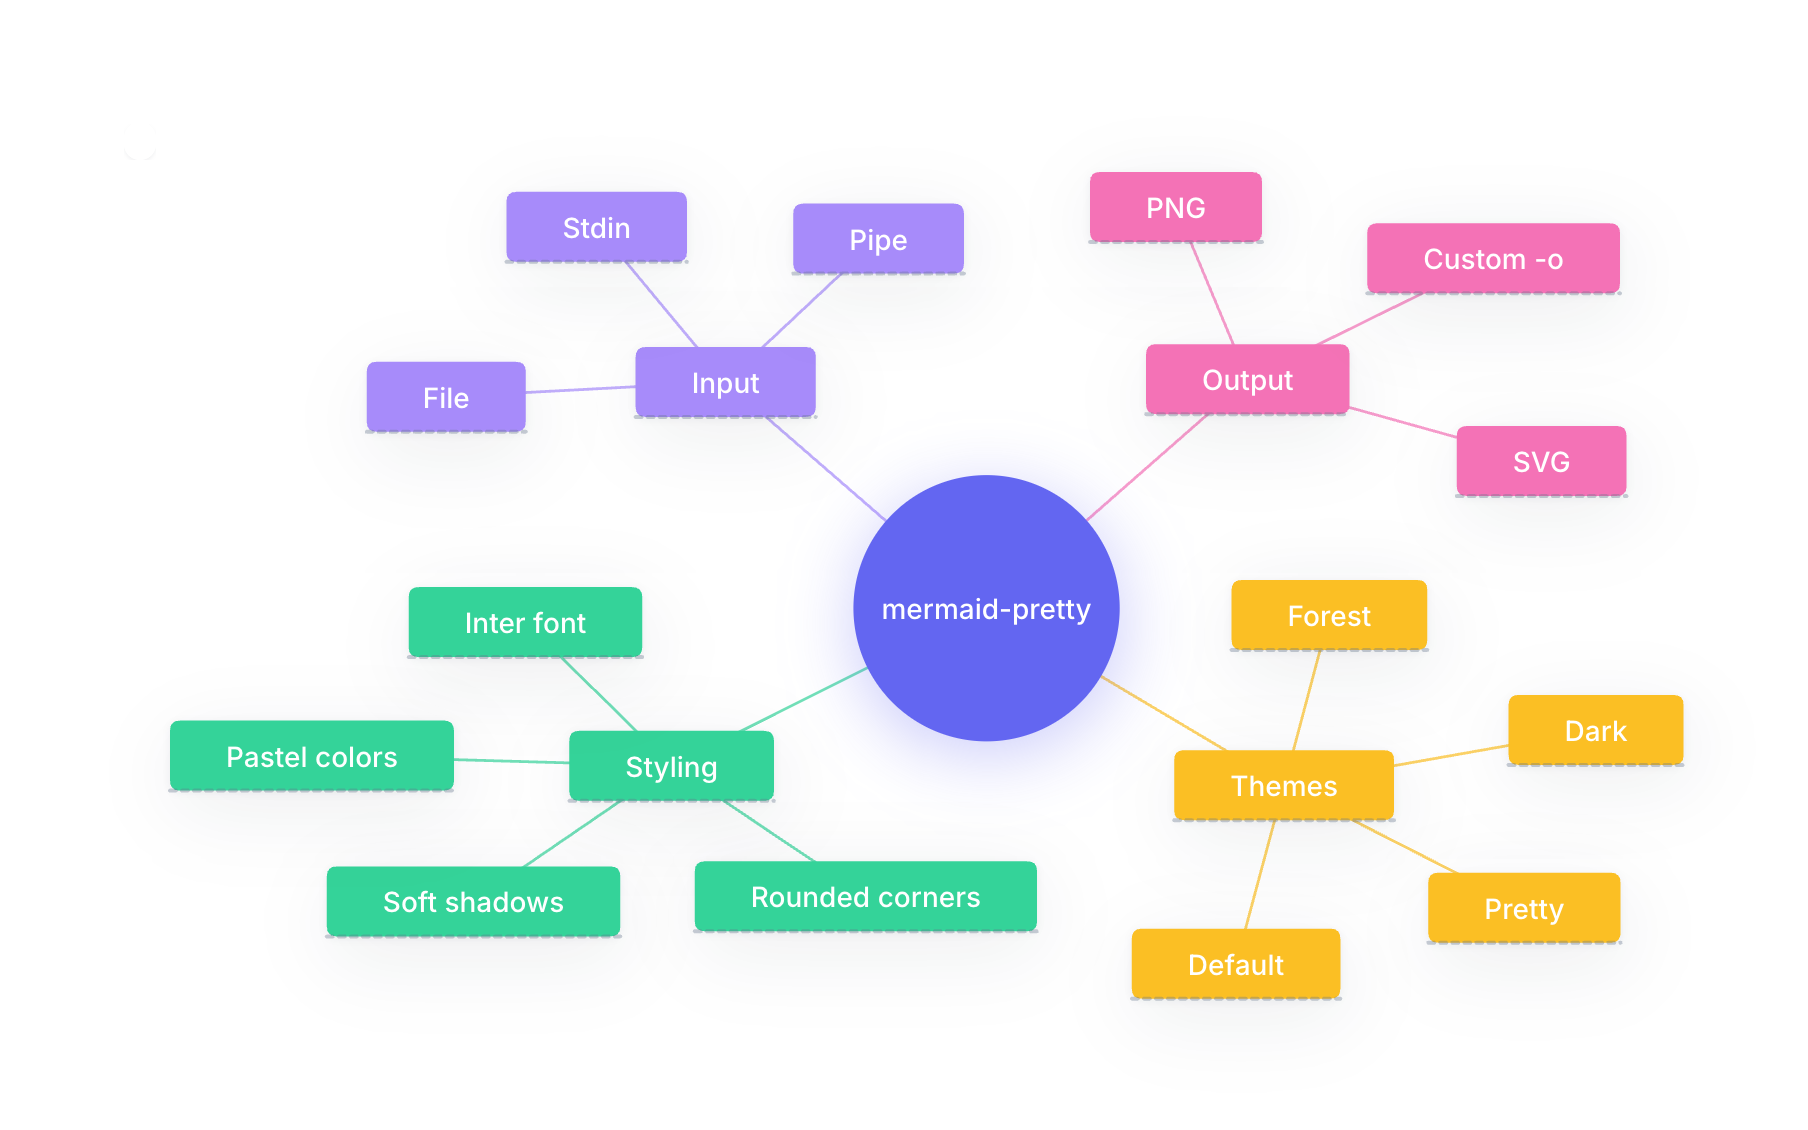
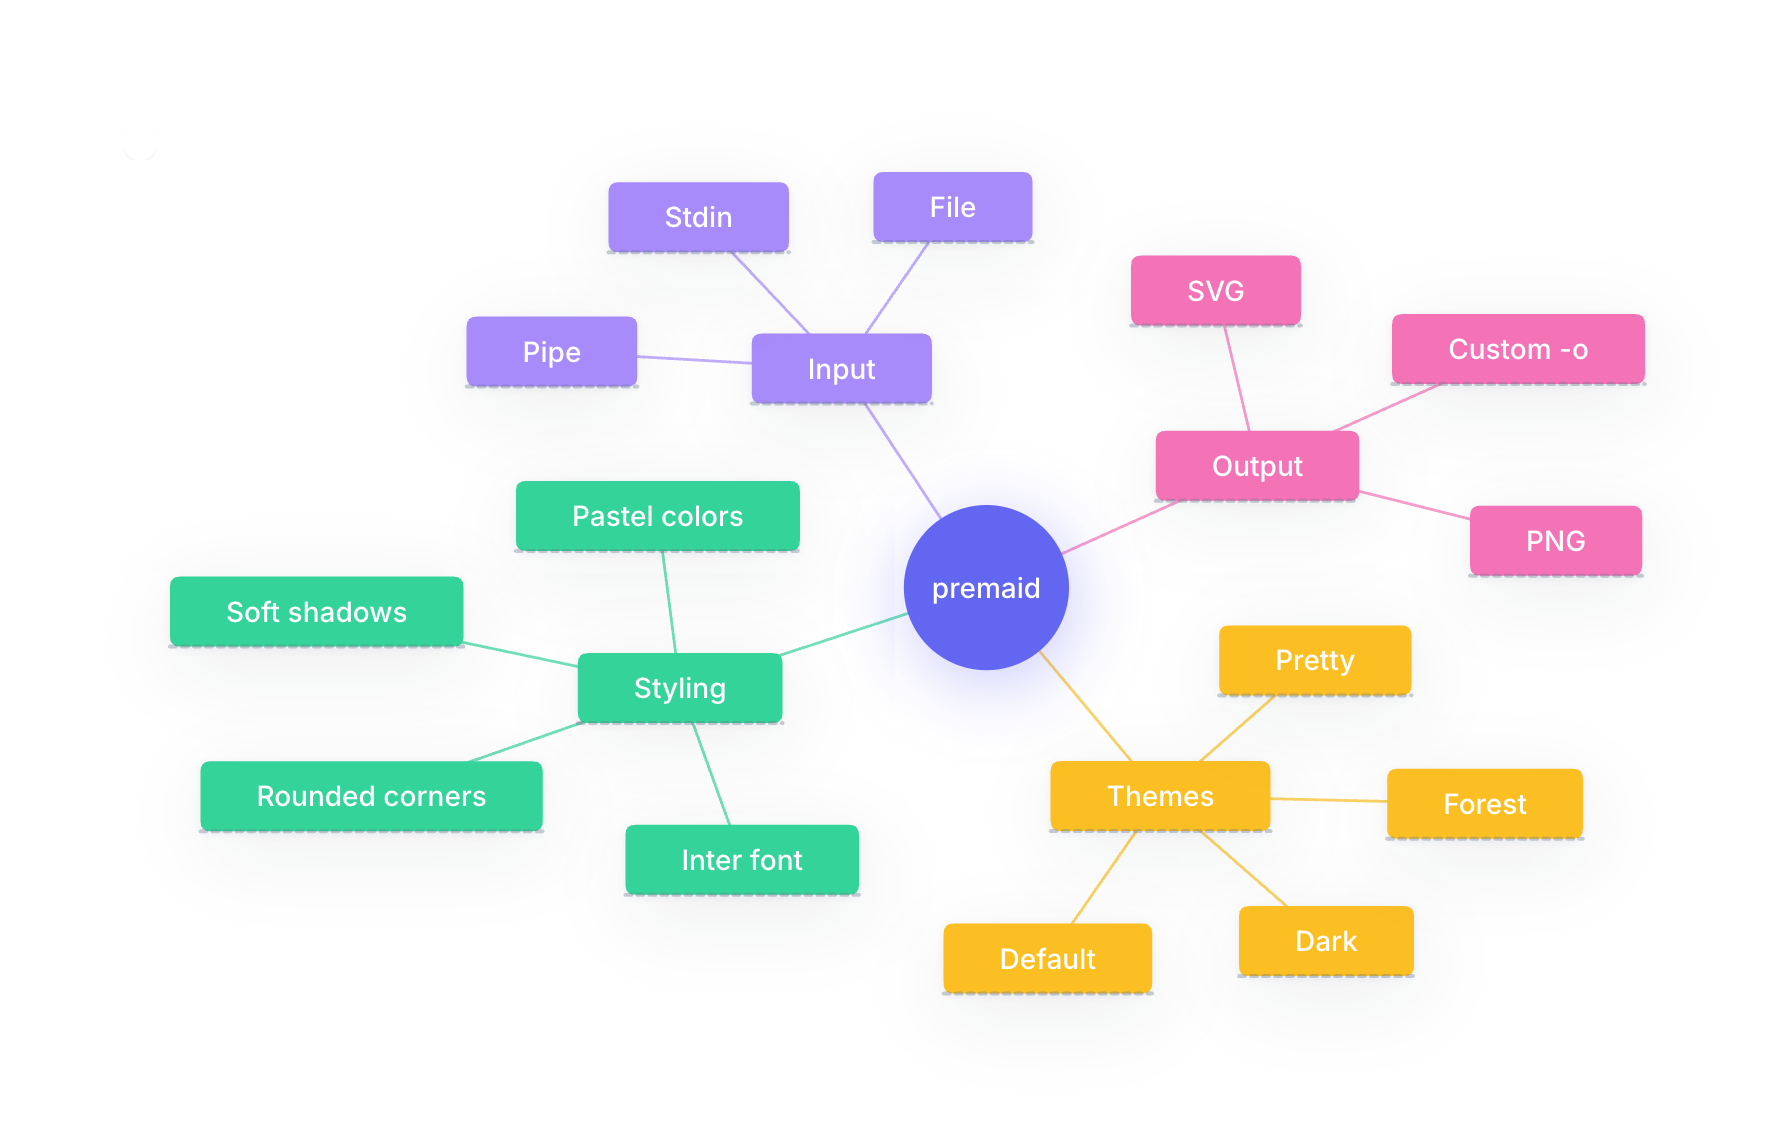
Rename package and CLI from mermaid-pretty/mmp to premaid

Changed region(s): [[0.0933, 0.1243, 0.9333, 0.9014]]

diff --git a/src/render.ts b/src/render.ts
@@ -28,7 +28,7 @@ function resolveMermaidPath(): string {
     }
   }
   throw new Error(
-    "mermaid.min.js not found. Please run `npm install` in the mermaid-pretty package."
+    "mermaid.min.js not found. Please run `npm install` in the premaid package."
   );
 }
 

diff --git a/src/cli.ts b/src/cli.ts
@@ -27,7 +27,7 @@ interface CliOptions {
 const program = new Command();
 
 program
-  .name("mermaid-pretty")
+  .name("premaid")
   .description("Render beautiful Mermaid diagrams from the command line")
   .version("0.1.0")
   .argument(

diff --git a/docs/catalog/README.md b/docs/catalog/README.md
@@ -1,9 +1,9 @@
 # Catalog
 
-`mermaid-pretty` の `pretty` テーマと素の Mermaid を並べた before/after カタログ。
-各セクションの上は ```` ```mermaid ```` ブロック（GitHub が素の Mermaid で描画）、下は `mmp` が出力した PNG。
+`premaid` の `pretty` テーマと素の Mermaid を並べた before/after カタログ。
+各セクションの上は ```` ```mermaid ```` ブロック（GitHub が素の Mermaid で描画）、下は `premaid` が出力した PNG。
 
-> `pretty` テーマは `mmp file.mmd` の既定。素の Mermaid は `mmp file.mmd -t default` に相当。
+> `pretty` テーマは `premaid file.mmd` の既定。素の Mermaid は `premaid file.mmd -t default` に相当。
 
 ---
 
@@ -212,7 +212,7 @@ Source: [`examples/pie.mmd`](../../examples/pie.mmd) · [SVG](images/pie.svg)
 
 ```mermaid
 mindmap
-  root((mermaid-pretty))
+  root((premaid))
     Input
       File
       Stdin
@@ -352,6 +352,6 @@ Source: [`examples/quadrant.mmd`](../../examples/quadrant.mmd) · [SVG](images/q
 
 ```bash
 for f in flowchart sequence class state er gantt pie mindmap timeline journey gitgraph quadrant; do
-  mmp "examples/${f}.mmd" -o "docs/catalog/images/${f}"
+  premaid "examples/${f}.mmd" -o "docs/catalog/images/${f}"
 done
 ```

diff --git a/README.md b/README.md
@@ -1,4 +1,4 @@
-# mermaid-pretty
+# premaid
 
 Render beautiful Mermaid diagrams from the command line. Paste your Mermaid source and get a refined SVG and PNG with a custom `pretty` theme inspired by mermaid.ai.
 
@@ -14,7 +14,7 @@ git clone https://github.com/O6lvl4/mermaid-pretty.git
 cd mermaid-pretty
 npm install
 npm run build
-npm link   # exposes `mermaid-pretty` and `mmp` on your PATH
+npm link   # exposes `premaid` on your PATH
 ```
 
 You can also run without linking:
@@ -35,16 +35,16 @@ npm install -g github:O6lvl4/mermaid-pretty
 
 ```bash
 # From a file (writes both .svg and .png to cwd)
-mmp examples/flowchart.mmd
+premaid examples/flowchart.mmd
 
 # From stdin
-cat examples/pie.mmd | mmp
+cat examples/pie.mmd | premaid
 
 # Paste interactively, then Ctrl-D
-mmp
+premaid
 
 # Custom output path (extension optional)
-mmp diagram.mmd -o ./out/my-diagram
+premaid diagram.mmd -o ./out/my-diagram
 ```
 
 ## Options
